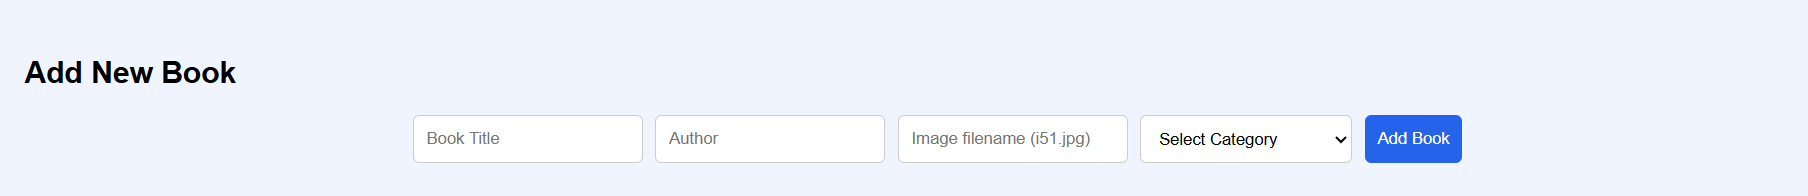
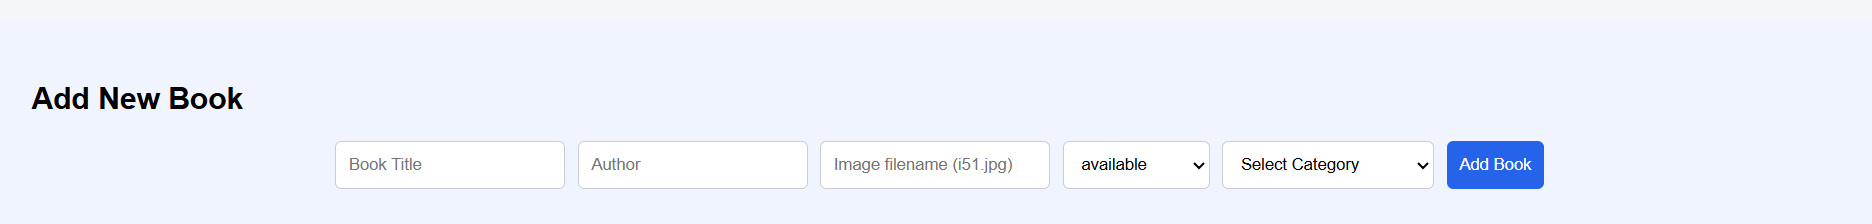
added status of a book

diff --git a/frontend/style.css b/frontend/style.css
@@ -18,8 +18,8 @@ header nav ul li a.active { border-bottom: 2px solid #2563eb; }
 .category-card.active { background:#1a2a6c; }
 
 .books-section { padding:30px; text-align:center; }
-.book-grid { display:grid; grid-template-columns:repeat(auto-fit,minmax(220px,1fr)); gap:20px; padding:20px; }
-.book-card { background:white; padding:15px; border-radius:10px; box-shadow:0 4px 8px rgba(0,0,0,0.1); transition:transform 0.2s; text-align:center; cursor:pointer; }
+.book-grid { display:grid; grid-template-columns:repeat(auto-fit,minmax(220px,1fr)); gap:20px; padding:20px; justify-items:center; }
+.book-card { background:white; padding:15px; border-radius:10px; box-shadow:0 4px 8px rgba(0,0,0,0.1); transition:transform 0.2s; text-align:center; cursor:pointer; width:100%; max-width:220px; }
 .book-card:hover { transform:translateY(-5px); }
 
 .more-card { display:flex; justify-content:center; align-items:center; font-size:18px; font-weight:bold; background:#f3f4f6; color:#2563eb; cursor:pointer; transition: transform 0.2s, background 0.2s; }
@@ -30,6 +30,22 @@ header nav ul li a.active { border-bottom: 2px solid #2563eb; }
 #formAddBook input, #formAddBook select, #formAddBook button { padding:10px; border-radius:5px; border:1px solid #ccc; }
 #formAddBook button { background:#2563eb; color:white; border:none; cursor:pointer; }
 #formAddBook button:hover { background:#1e40af; }
+
+.book-status {
+  display: inline-block;
+  margin-top: 8px;
+  padding: 4px 10px;
+  border-radius: 999px;
+  font-size: 12px;
+  font-weight: 600;
+  text-transform: uppercase;
+}
+
+.book-status.available,
+.status-pill.available { background: #dcfce7; color: #166534; }
+
+.book-status.checked_out,
+.status-pill.checked_out { background: #fee2e2; color: #991b1b; }
 
 .modal { display:none; position:fixed; z-index:1000; left:0; top:0; width:100%; height:100%; background-color:rgba(0,0,0,0.6); justify-content:center; align-items:center; }
 .modal-content { background:white; padding:20px; border-radius:10px; width:90%; max-width:400px; position:relative; }

diff --git a/frontend/script.js b/frontend/script.js
@@ -30,6 +30,7 @@ function displayBooks(books, reset = true) {
       <div class="book-title">${book.title}</div>
       <div class="book-author">${book.author}</div>
       <div class="book-category">${book.category}</div>
+      <div class="book-status ${book.status}">${book.status}</div>
     `;
     card.addEventListener("click", () => openModal(book));
     booksContainer.appendChild(card);
@@ -77,6 +78,8 @@ function openModal(book){
   document.getElementById("modalTitle").textContent = book.title;
   document.getElementById("modalAuthor").textContent = "Author: " + book.author;
   document.getElementById("modalCategory").textContent = "Category: " + book.category;
+  document.getElementById("modalStatus").innerHTML =
+    `Status: <span class="status-pill ${book.status}">${book.status}</span>`;
 }
 function closeModal(){ document.getElementById("bookModal").style.display = "none"; }
 
@@ -87,11 +90,12 @@ formAddBook.addEventListener("submit", function(e){
   const author = document.getElementById("author").value;
   const category = document.getElementById("newCategory").value;
   const image = document.getElementById("image").value;
+  const status = document.getElementById("status").value;
 
   fetch("http://localhost:5000/api/books", {
     method:"POST",
     headers: {"Content-Type":"application/json"},
-    body: JSON.stringify({title, author, category, image})
+    body: JSON.stringify({title, author, category, image, status})
   })
   .then(res => res.json())
   .then(data => {

diff --git a/frontend/index.html b/frontend/index.html
@@ -74,6 +74,10 @@
       <input type="text" id="title" placeholder="Book Title" required>
       <input type="text" id="author" placeholder="Author" required>
       <input type="text" id="image" placeholder="Image filename (i51.jpg)" required>
+      <select id="status" required>
+        <option value="available">available</option>
+        <option value="checked_out">checked_out</option>
+      </select>
       <select id="newCategory" required>
         <option value="">Select Category</option>
         <option>Artificial Intelligence</option>
@@ -99,6 +103,7 @@
       <h2 id="modalTitle"></h2>
       <p id="modalAuthor"></p>
       <p id="modalCategory"></p>
+      <p id="modalStatus"></p>
     </div>
   </div>
 

diff --git a/README.md b/README.md
@@ -1,7 +1,7 @@
 # Online Library Catalog
 
 ## Description
-A web-based library catalog built with **HTML, CSS, JavaScript (frontend)** and **Node.js, Express.js, MySQL (backend)**. Users can browse books by category, search for titles, and view book details including cover image, title, author, and category.  
+A web-based library catalog built with **HTML, CSS, JavaScript (frontend)** and **Node.js, Express.js, MySQL (backend)**. Users can browse books by category, search for titles, and view book details including cover image, title, author, category and availability or status.  
 
 The project demonstrates core concepts: **Node.js backend, MySQL tables, and forms** for adding books.
 
@@ -15,6 +15,7 @@ The project demonstrates core concepts: **Node.js backend, MySQL tables, and for
 - Add new books via backend form
 - "+ More" feature to dynamically load additional books
 - Well-organized folder structure
+- Check availability of book
 
 Optional future improvements:
 - Read/Download PDF feature
